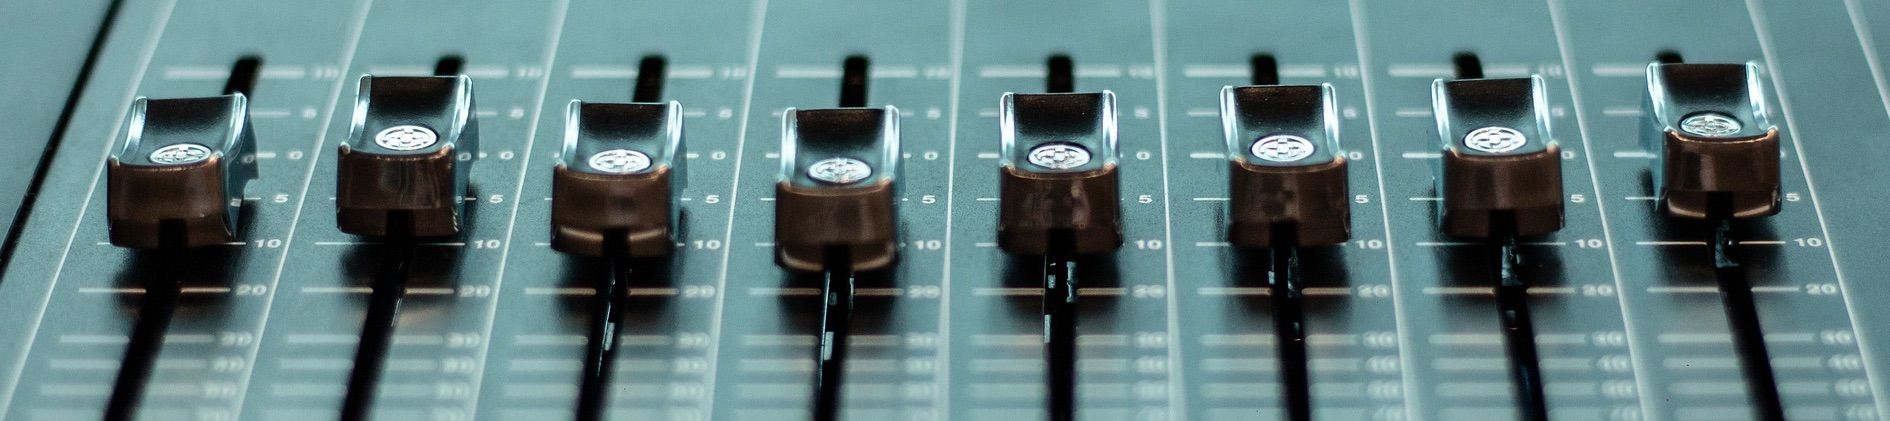
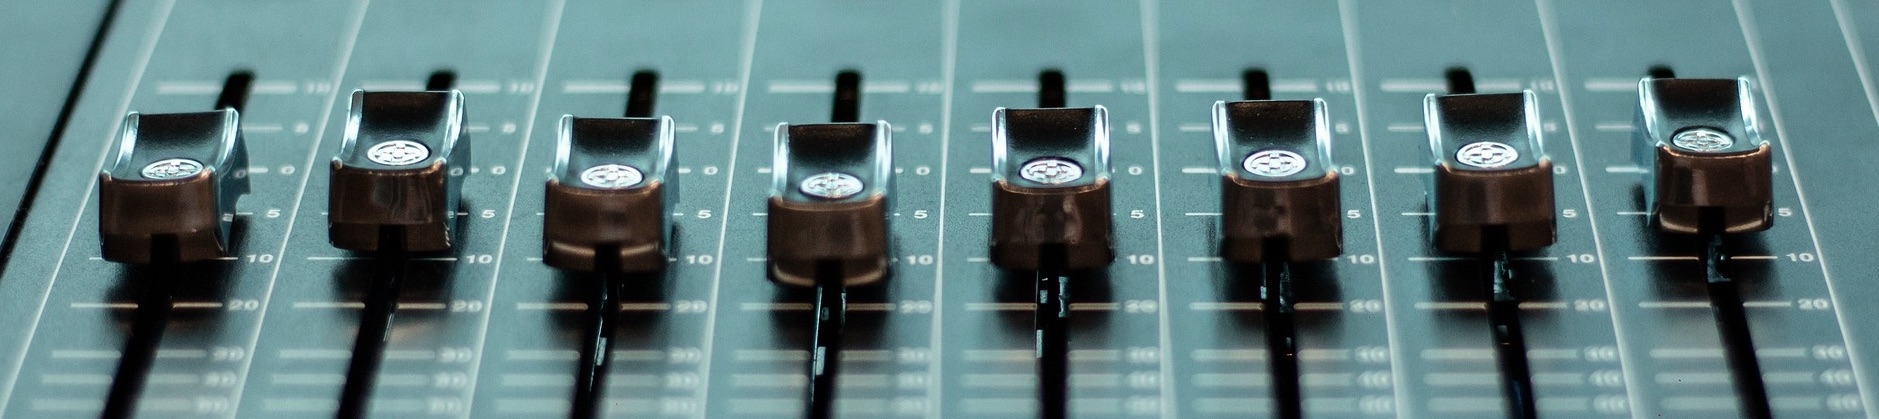
added image

diff --git a/teaching.html b/teaching.html
@@ -92,7 +92,7 @@
   </header> -->
 	
   <div class="banner">
-	<img style="width:100%;" id="image" src="images/mixer.jpg">
+	<img style="width:100%;" id="image" src="images/mixer3_cover.jpeg">
   </div>
   
 	
